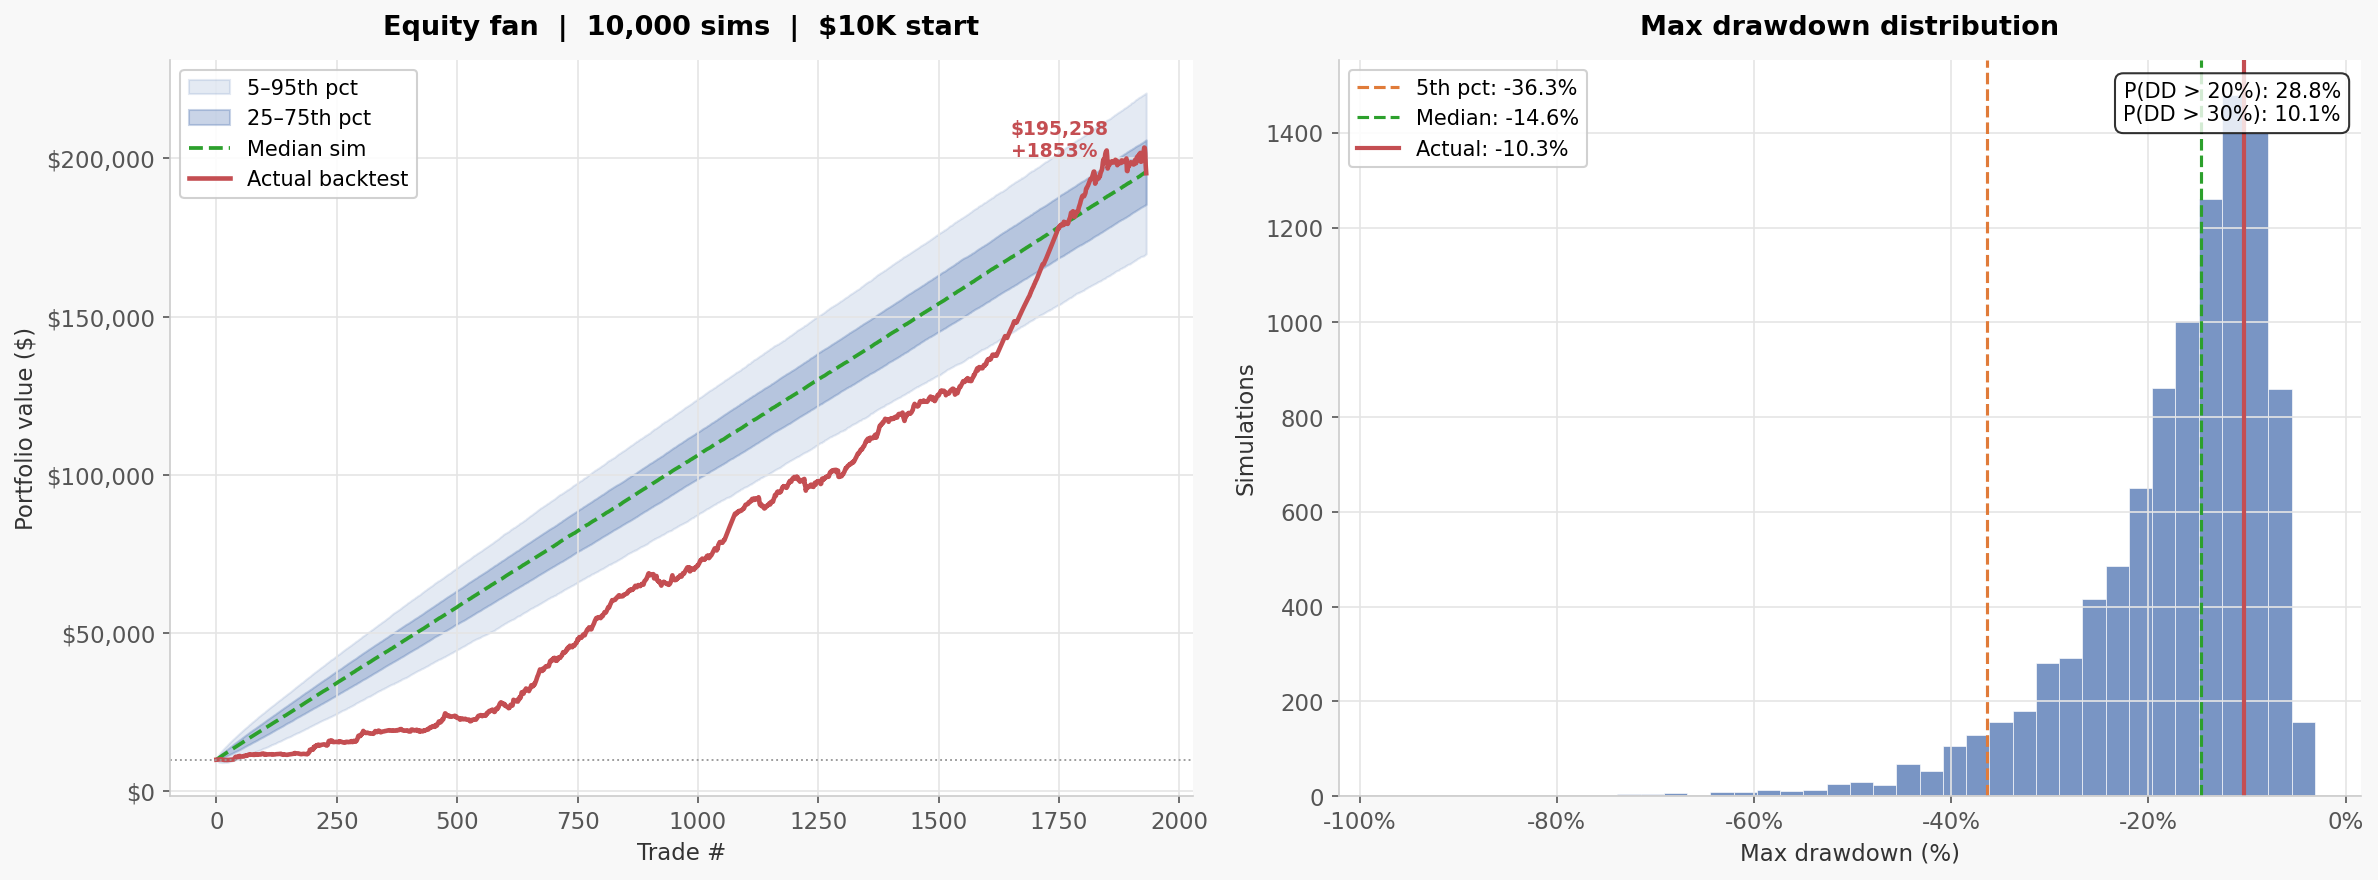
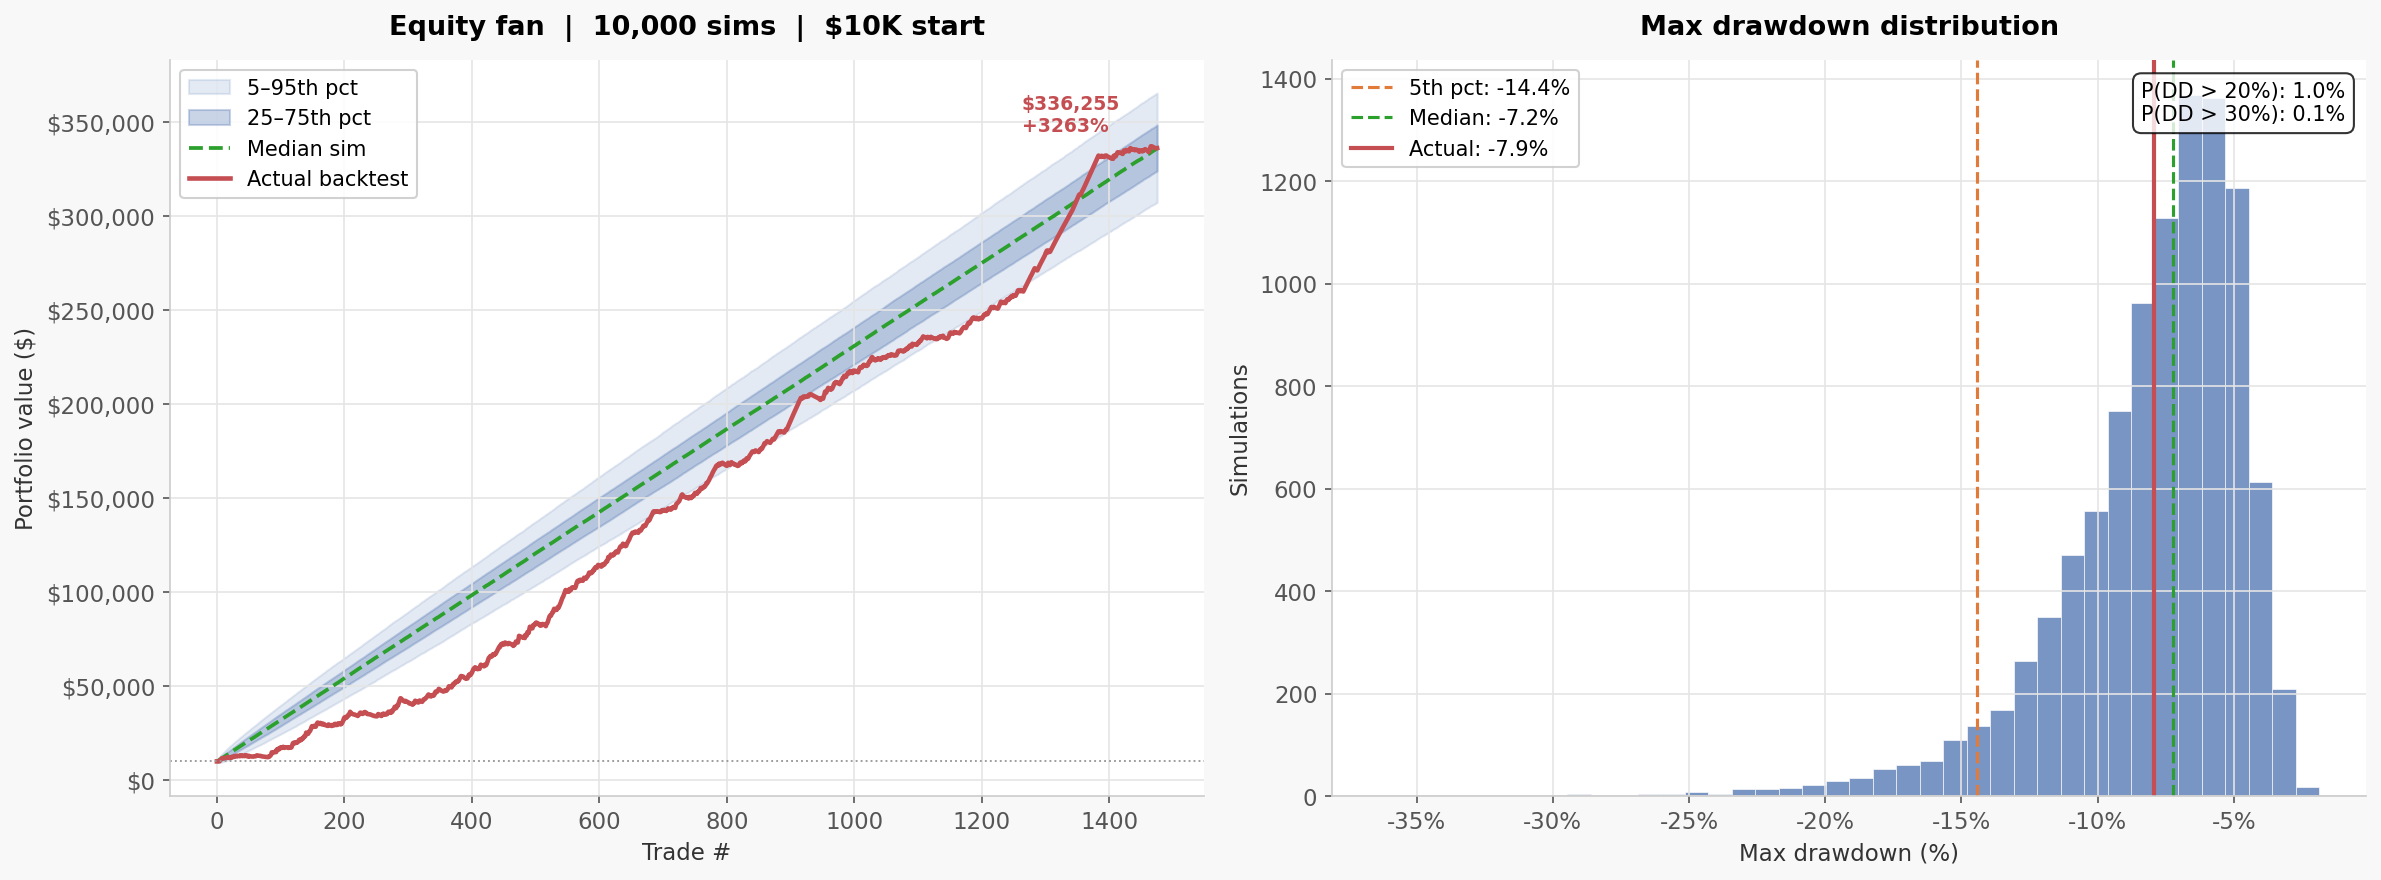
Update backtest to $10K capital: +3263% / Sharpe 7.55 / DD -7.9%; refresh MC chart

diff --git a/README.md b/README.md
@@ -4,24 +4,24 @@ A live quantitative trading bot for Kalshi's KXBTC binary event markets, built a
 
 ---
 
-## Backtest Results (60-day walk-forward, May 24 – Jul 22 2026)
+## Backtest Results (60-day walk-forward, May 24 – Jul 23 2026)
 
 | Metric | Value |
 |--------|-------|
-| Starting capital | $5,000 |
-| Final capital | $190,258 |
-| Return | **+3,705%** |
-| Sharpe ratio | **4.31** |
-| Profit factor | 2.41 |
-| Max drawdown | -12.9% |
-| Trades | 1,931 |
-| Win rate | 63.0% |
-| Avg hold | 11 min |
-| Vol compression WR | **58.2%** vs 65.5% normal (53% of P&L from compression trades) |
+| Starting capital | $10,000 |
+| Final capital | $336,255 |
+| Return | **+3,263%** |
+| Sharpe ratio | **7.55** |
+| Profit factor | 3.35 |
+| Max drawdown | -7.9% |
+| Trades | 1,475 |
+| Win rate | 51.4% |
+| Avg hold | 10 min |
+| Vol compression WR | **57.9%** vs 43.0% normal (74% of P&L from compression trades) |
 
 Backtest uses real BTC-USD 5-minute OHLCV from yfinance. Fills modeled at Kalshi's spread (widened dynamically near settlement to reflect thin end-of-hour liquidity). Intrabar stop simulation uses bar High/Low to replicate live polling. `SESSION_STOP_PCT` peak-drawdown breaker resets each day to model the live workflow (bot restarted per session). See [`docs/STRATEGY.md`](docs/STRATEGY.md) for the full math and audit.
 
-Dominant exit by P&L: `momentum_locked` (475 trades, 100% WR, +$173,495). Biggest drag: `no_stop` (95 trades, -$48,246).
+Dominant exit by P&L: `momentum_locked` (591 trades, 100% WR, +$429,846). Biggest drag: `stop_loss` (568 trades, -$92,866).
 
 ---
 